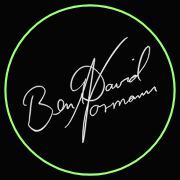
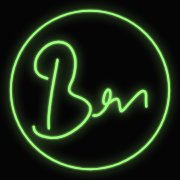
Ben i ring som ikon, mykere glød på Ben-merket som i signaturen
Claude-Session: https://claude.ai/code/session_01AG264vLwFjjJ5G3vuiXZRm

diff --git a/src/build.py b/src/build.py
@@ -244,13 +244,13 @@ def page(path, p, theme=None):
 <body>
 <canvas id="sky" aria-hidden="true"></canvas>
 <header class="site-header">
-  <a class="brand" href="/" aria-label="{SITE}, {t["front"]}"><img src="/brand/stamp.svg" alt="{SITE}" width="56" height="56"></a>
+  <a class="brand" href="/" aria-label="{SITE}, {t["front"]}"><img src="/brand/ben-ring.svg" alt="{SITE}" width="56" height="56"></a>
   <input type="checkbox" id="menu" hidden><label for="menu" class="burger" aria-label="{t["menu"]}">☰</label>
   <nav>{nav}<span class="social">{social}</span><a class="btn" href="{t["book"]}">Book Ben!</a></nav>
 </header>
 <main>{back}{body}</main>
 <footer class="site-footer">
-  <a class="stamp" href="/" aria-label="{SITE}"><img src="/brand/stamp.svg" alt="" width="96" height="96" loading="lazy"></a>
+  <a class="stamp" href="/" aria-label="{SITE}"><img src="/brand/ben-ring.svg" alt="" width="96" height="96" loading="lazy"></a>
   <span class="copy">© Ben David Normann</span>
   <span class="social">{social}</span>
   <a {link_attrs("@CONTACT@")}>{t["contact"]}</a>
